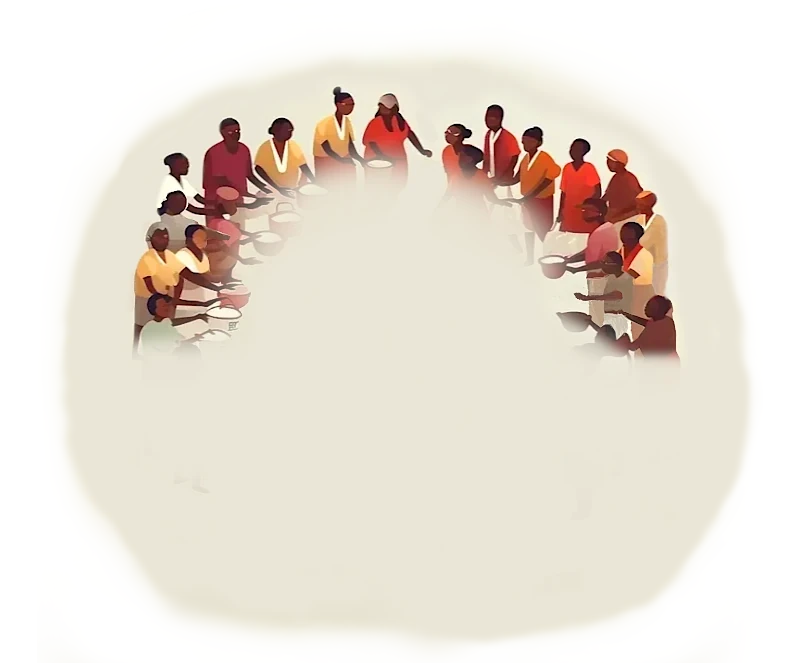
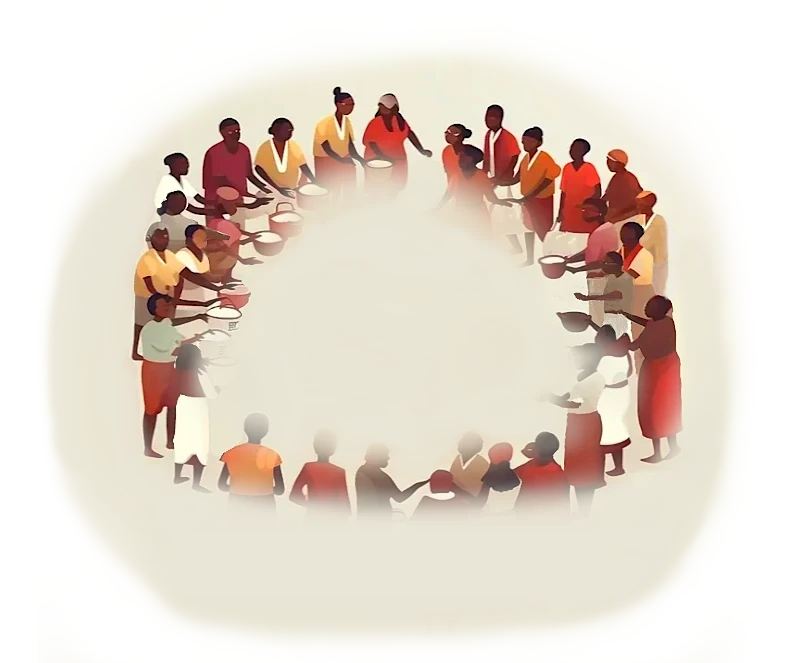
Redo mobile header

diff --git a/components/hero.vue b/components/hero.vue
@@ -243,10 +243,10 @@ section.hero {
     }
 
     .icon {
-        margin-top: 2rem;
+        margin-top: 0rem;
         position: relative;
-        width: clamp(17rem, 50vw, 18rem);
-        height: clamp(14.5rem, 42vw, 15rem);
+        width: clamp(16rem, 50vw, 18rem);
+        height: clamp(13.5rem, 42vw, 15rem);
         overflow: hidden;
         z-index: 10;
 
@@ -268,10 +268,10 @@ section.hero {
             position: relative;
             width: 1000px;
             height: 663px;
-            transform: scale(1);
+            transform: scale(1.1);
             z-index: 0;
             opacity: 100%;
-            top: -7rem;
+            top: -8rem;
         }
     }
 
@@ -314,7 +314,7 @@ section.hero {
     }
 
     .subheader {
-        margin-top: 1.4rem;
+        margin-top: 3rem;
         margin-bottom: 0.5rem;
         font-size: 1.4rem;
         font-weight: 600;
